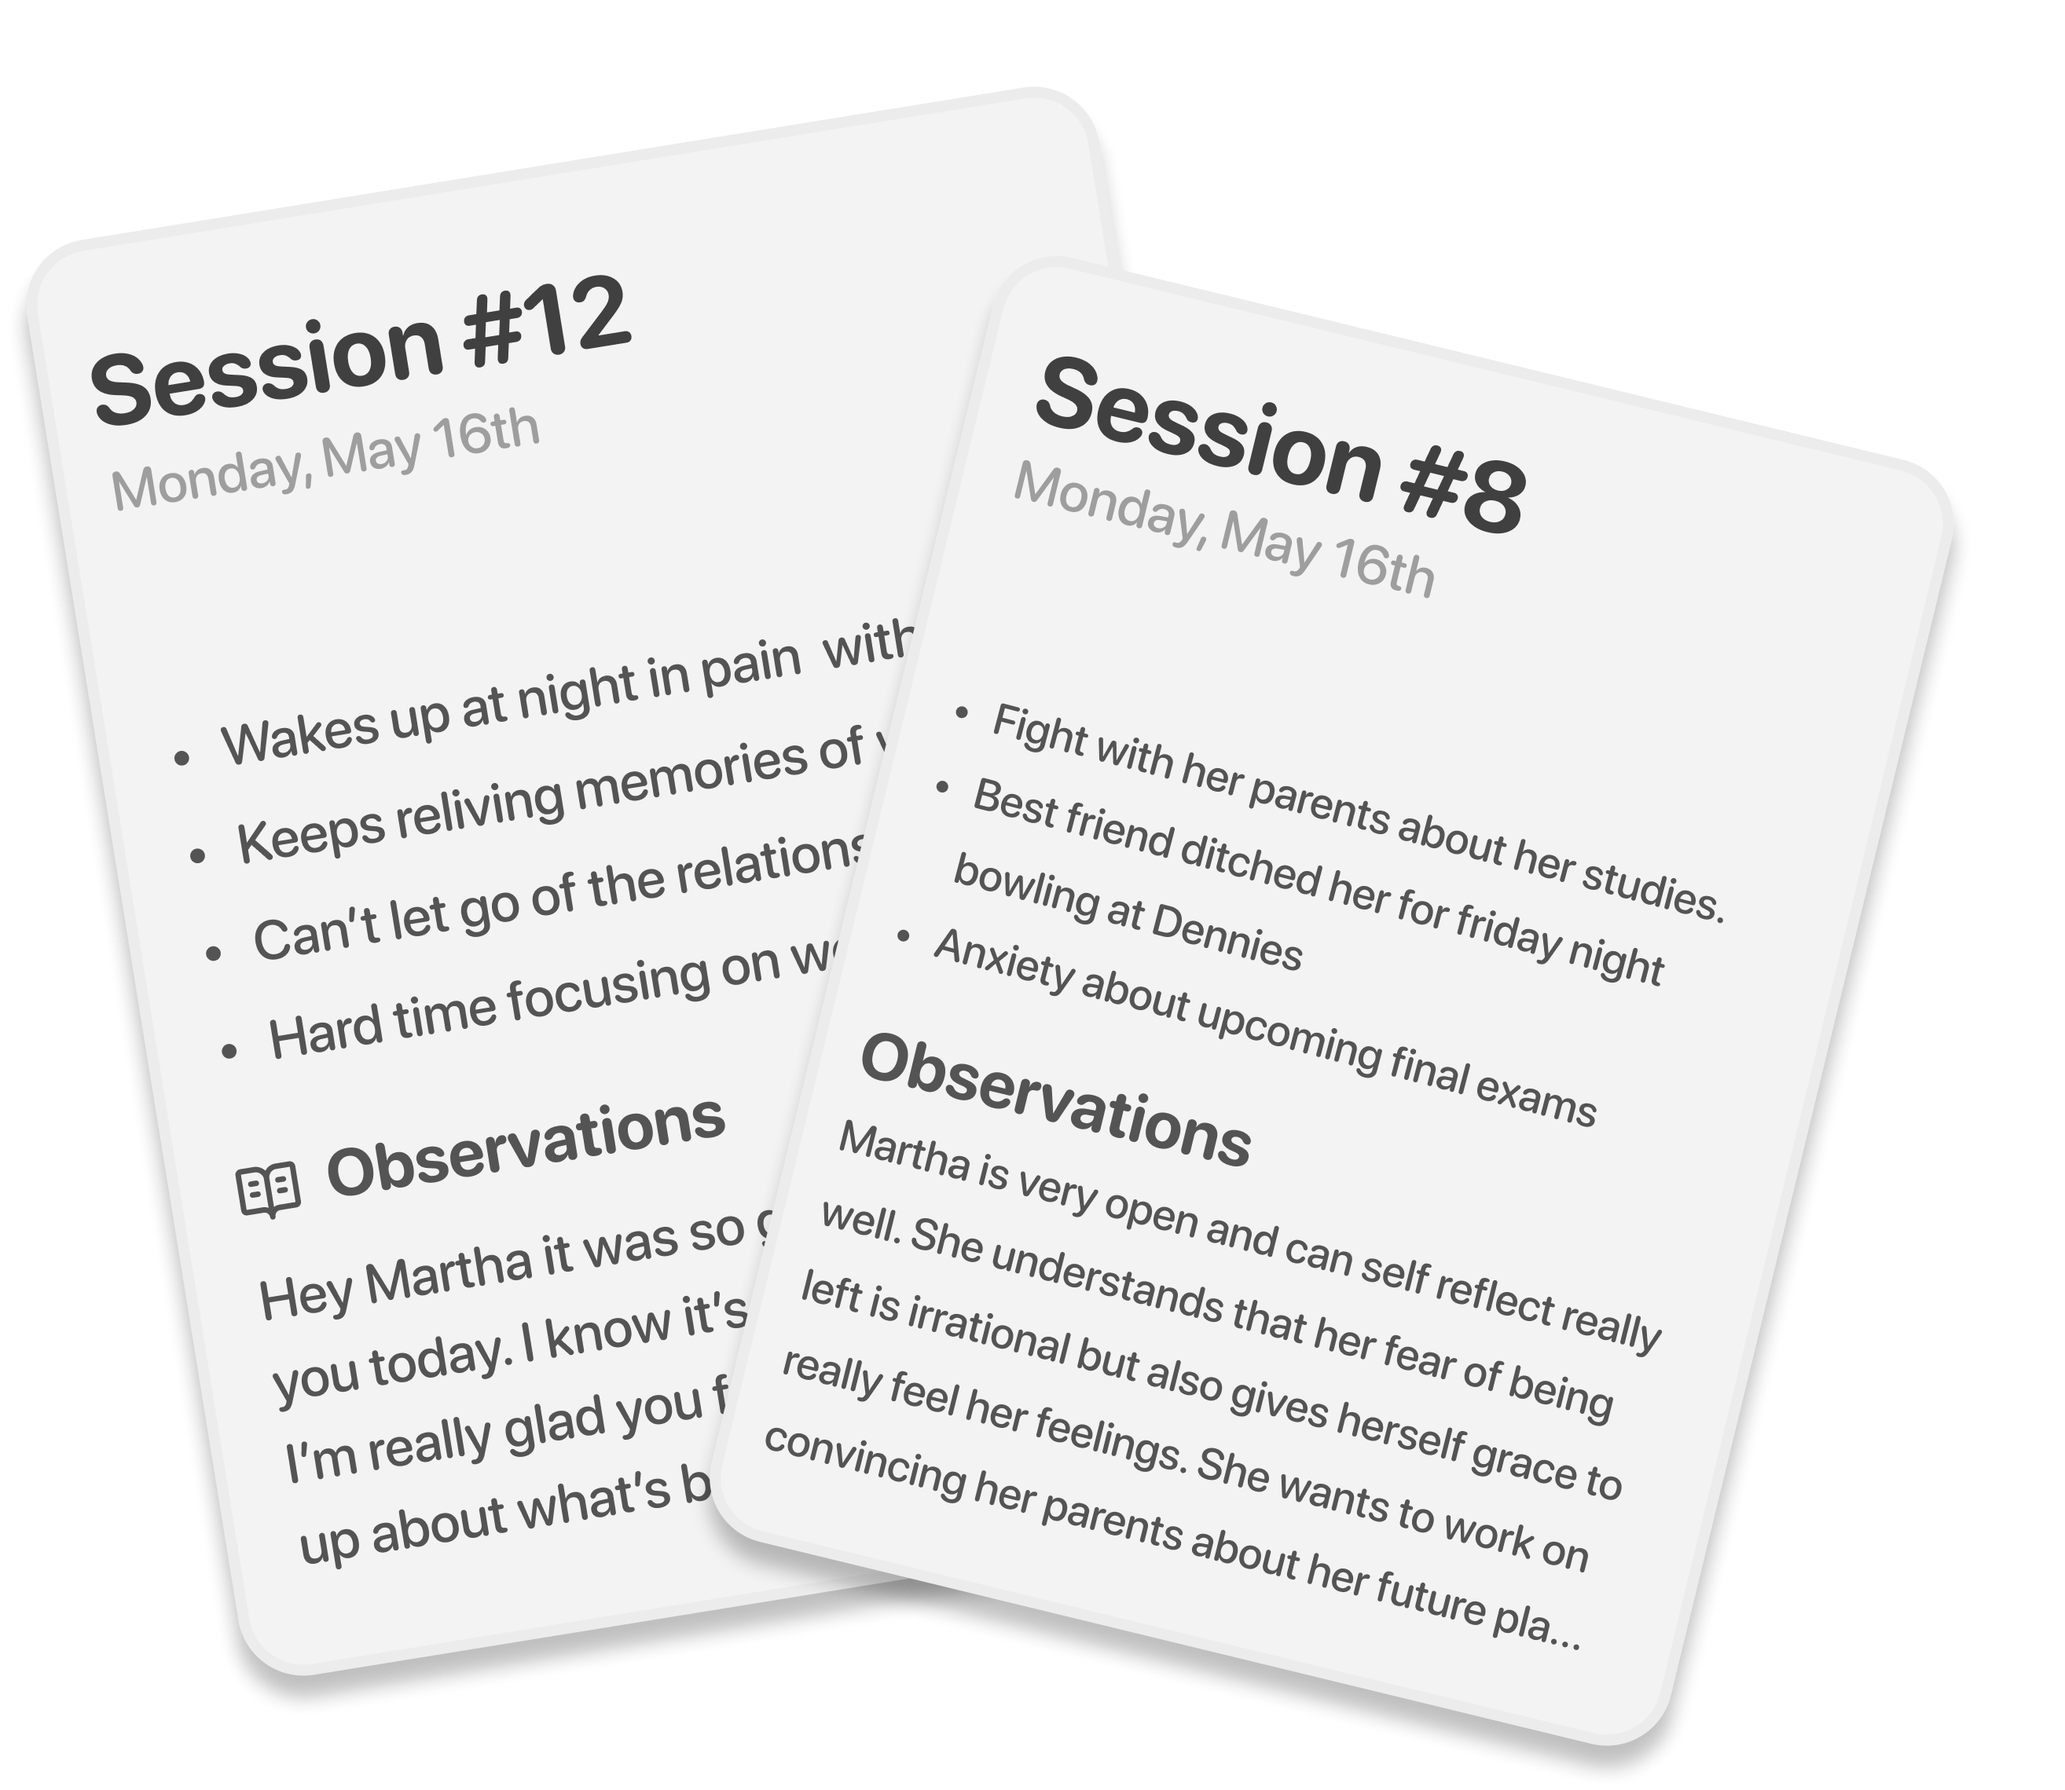
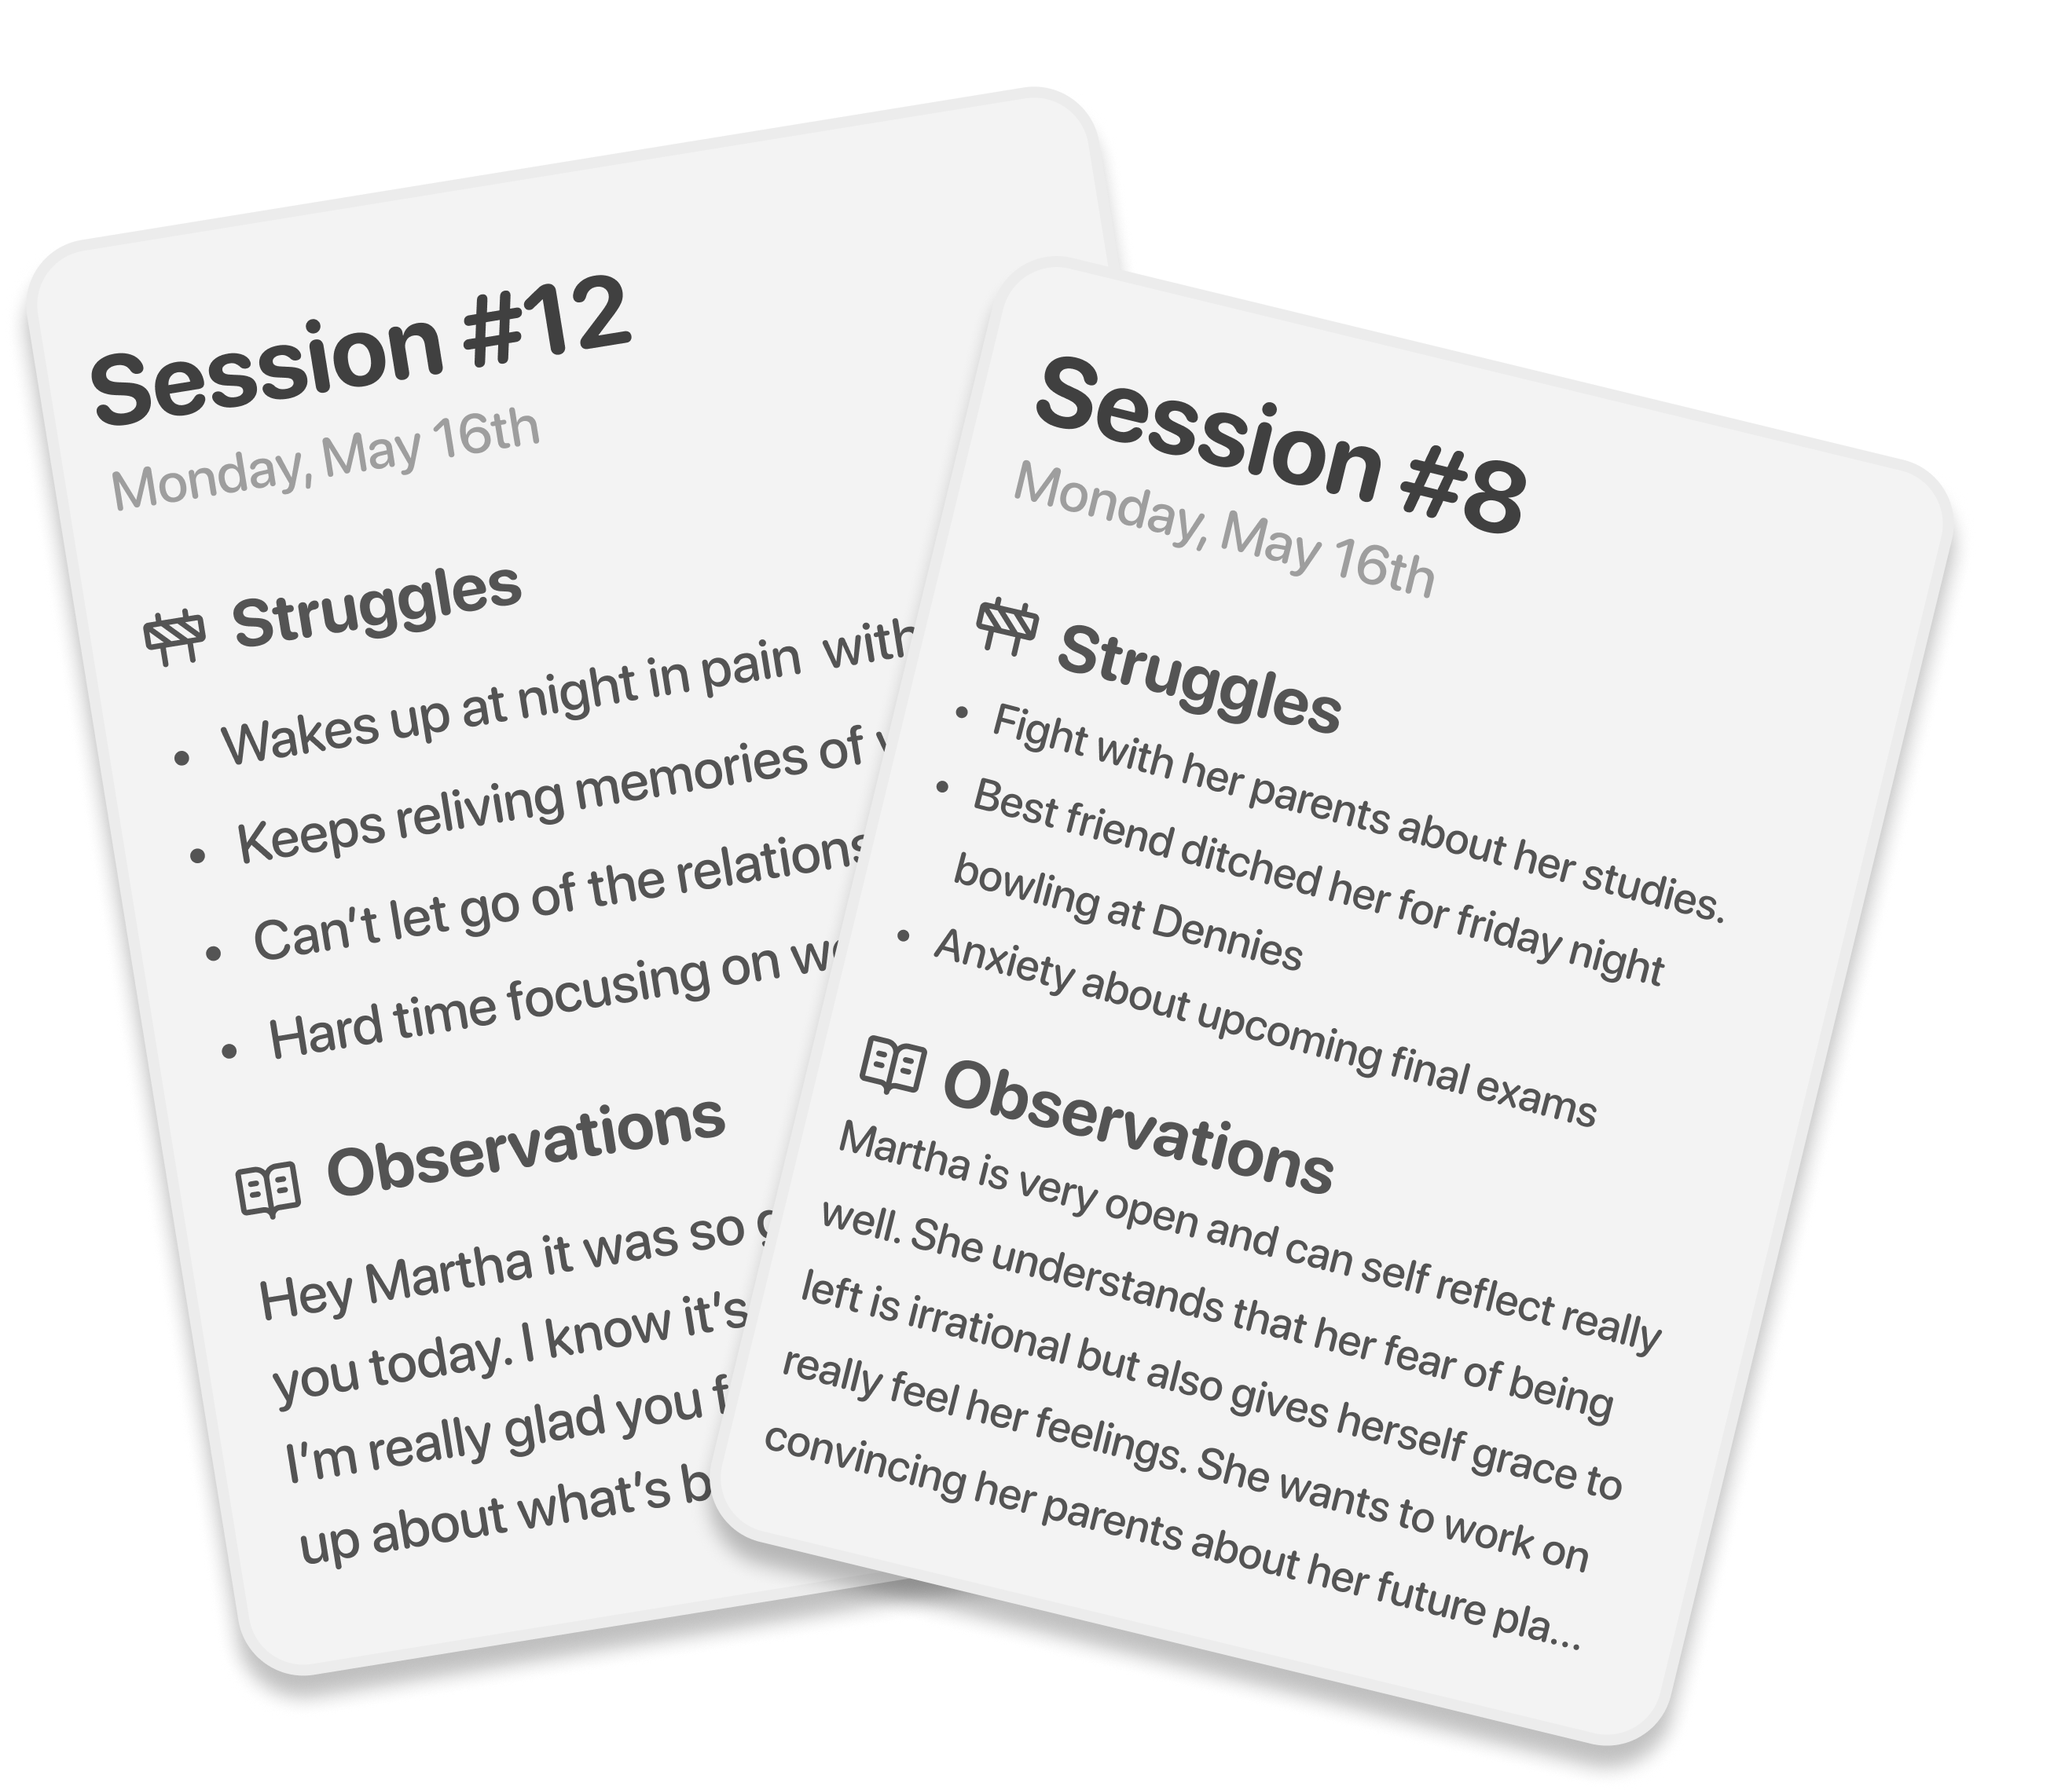
font applied

Changed region(s): [[0.4056, 0.5608, 0.6553, 0.6854], [0.0624, 0.3115, 0.2496, 0.3738], [0.468, 0.3115, 0.6553, 0.405]]

diff --git a/components/onboarding/ExtraSteps.tsx b/components/onboarding/ExtraSteps.tsx
@@ -59,7 +59,9 @@ const styles = StyleSheet.create({
     fontWeight: 'bold',
     color: 'white',
     marginTop: 20,
-    marginBottom: 10
+    marginBottom: 10,
+    fontFamily: 'SFPro-Bold',
+
   },
   subtitle: {
     fontSize: 15,
@@ -67,26 +69,18 @@ const styles = StyleSheet.create({
     opacity: 0.8,
     textAlign: 'center',
     fontWeight: '500',
+    fontFamily: 'SFPro-Medium',
   },
 });
 
 
-const { width: SCREEN_WIDTH } = Dimensions.get('window');
-
-
-// Make this smaller if you want a shorter card
-const CARD_BASE_WIDTH = SCREEN_WIDTH * 0.8; 
-// This is the visible “height” window for the large card.
-const CARD_VISIBLE_HEIGHT = CARD_BASE_WIDTH * 1.1; 
-
-// Scale factor for the smaller (right) card
-const SMALL_SCALE = 0.55;                 
 
 export const CustomStepEight: React.FC<{
   step: number;
   totalSteps: number;
+  continueColor?: string
   onContinue: () => void;
-}> = ({ step, totalSteps, onContinue }) => {
+}> = ({ step, totalSteps, onContinue, continueColor }) => {
   const goals = [
     'Letting Go with Kindness',
     'Try setting one tiny goal for the week',
@@ -95,7 +89,8 @@ export const CustomStepEight: React.FC<{
 
   return (
     <StepLayout
-      title="Buddy creates custom Reports and Objectives after Sessions"
+      continueColor={continueColor}
+      title="Buddy creates custom Reports and Objectives after each Session"
       subtitle=""
       step={step}
       totalSteps={totalSteps}
@@ -142,6 +137,7 @@ const styles2 = StyleSheet.create({
   marginTop: 27,
   textAlign: "center",
   marginBottom: 10,
+  fontFamily: 'SFPro-Bold',
  },
 
   goalsContainer: {
@@ -167,11 +163,13 @@ const styles2 = StyleSheet.create({
 export const CustomStep13: React.FC<{
   step: number;
   totalSteps: number;
+  continueColor?: string
   onContinue: () => void;
-}> = ({ step, totalSteps, onContinue }) => {
+}> = ({ step, totalSteps, onContinue, continueColor }) => {
 
   return (
     <StepLayout
+      continueColor={continueColor}
       title="Buddy helps you be happier & more secure"
       subtitle=""
       step={step}
@@ -193,16 +191,18 @@ export const CustomStep13: React.FC<{
 export const CustomStep14: React.FC<{
   step: number;
   totalSteps: number;
+  continueColor?: string
   onContinue: () => void;
-}> = ({ step, totalSteps, onContinue }) => {
+}> = ({ step, totalSteps, onContinue, continueColor }) => {
 
   return (
     <StepLayout
+      continueColor={continueColor}
       title="Buddy is now creating a personal Therapy Plan"
       subtitle="It will evolve and and adapt over time based on your sessions and memories"
       step={step}
       totalSteps={totalSteps}
-      gradientColors={['#FB5D83', '#0188FF']}
+      gradientColors={['#FFB301', '#EE5623']}
       onContinue={onContinue}
       continueLabel="Continue"
     >

diff --git a/components/onboarding/SubscriptionSteps.tsx b/components/onboarding/SubscriptionSteps.tsx
@@ -67,6 +67,7 @@ const styles = StyleSheet.create({
     color: 'white',
     marginBottom: 4,
     textAlign: 'center',
+    fontFamily: 'SFPro-Bold',
   },
   subtitle: {
     position: 'absolute',
@@ -77,6 +78,7 @@ const styles = StyleSheet.create({
     color: 'white',
     opacity: 0.8,
     textAlign: 'center',
+    fontFamily: 'SFPro-Medium',
   },
   contentContainer: {
     flex: 1,
@@ -92,11 +94,13 @@ const styles = StyleSheet.create({
     borderRadius: 30,
     paddingVertical: 15,
     alignItems: 'center',
+    fontFamily: 'SFPro-Bold',
   },
   continueText: {
     color: '#01A8FF',
     fontSize: 19,
     fontWeight: '700',
+    fontFamily: 'SFPro-Bold',
   },
   disclaimer: {
     marginTop: -12,
@@ -104,7 +108,8 @@ const styles = StyleSheet.create({
     fontSize: 12,
     fontWeight: '500',
     opacity: 0.7,
-    textAlign: "center"
+    textAlign: "center",
+    fontFamily: 'SFPro-Bold',
   }
 });
 
@@ -122,7 +127,7 @@ export const FreeTrial = ({onContinue}: {onContinue: () => void}) => {
       <Image source={require("../../assets/Phone.png")} style={{ width: width * 0.64, height: height * 0.45, marginBottom: 40, alignSelf:"center" }} />
       <View style={{ flexDirection: 'row', alignItems: 'center', justifyContent: 'center', display: 'flex' }}>
        <SymbolView name="checkmark" size={23} tintColor="white" weight="bold" />
-        <Text style={{ fontSize: 23, color: 'white', fontWeight: '700', marginLeft: 4 }}> No Payment due now</Text>
+        <Text style={{ fontSize: 23, color: 'white', fontWeight: '700', marginLeft: 4, fontFamily: 'SFPro-Bold', }}> No Payment due now</Text>
       </View>
     </StepLayout>
   )
@@ -141,7 +146,7 @@ export const FreeTrialNotif = ({onContinue}: {onContinue: () => void}) => {
         <SymbolView name="bell.badge" size={220} tintColor="white" type='multicolor' animationSpec={{effect:{type: 'bounce'}, repeating: true}} style={{alignSelf:"center"}} />
         <View style={{ flexDirection: 'row', alignItems: 'center', justifyContent: 'center', display: 'flex', marginTop: 60 }}>
         <SymbolView name="checkmark" size={23} tintColor="white" weight="bold" />
-        <Text style={{ fontSize: 23, color: 'white', fontWeight: '700', marginLeft: 4 }}> No Payment due now</Text>
+        <Text style={{ fontSize: 23, color: 'white', fontWeight: '700', marginLeft: 4, fontFamily: 'SFPro-Bold', }}> No Payment due now</Text>
         </View>
       </StepLayout>
     )

diff --git a/components/reports/sections.tsx b/components/reports/sections.tsx
@@ -59,18 +59,22 @@ const styles = StyleSheet.create({
     flexDirection: 'row',
     alignItems: 'center',
     marginBottom: 8,
+
   },
   title: {
     color: '#fefefe',
     fontSize: 21,
     fontWeight: '600',
     marginLeft: 8,
+    fontFamily: 'SFPro-Bold',
+
   },
   paragraph: {
     color: '#fefefe',
     fontSize: 18,
     fontWeight: '500',
     lineHeight: 26,
+    fontFamily: 'SFPro-Medium',
   },
   bulletRow: {
     flexDirection: 'row',
@@ -88,6 +92,8 @@ const styles = StyleSheet.create({
     color: '#fefefe',
     fontSize: 18,
     fontWeight: '500',
-    lineHeight: 26,
+    lineHeight: 26,    
+    fontFamily: 'SFPro-Bold',
+
   },
 })

diff --git a/components/Feed/ReportsFeed.tsx b/components/Feed/ReportsFeed.tsx
@@ -195,6 +195,7 @@ const styles = StyleSheet.create({
     fontSize: 18,
     fontWeight: '700',
     color: '#111',
+    fontFamily: 'SFPro-Bold',
   },
 
   // --- tabs ---
@@ -217,6 +218,7 @@ const styles = StyleSheet.create({
     color: '#888',
     fontSize: 16,
     fontWeight: '600',
+    fontFamily: 'SFPro-Bold',
   },
   tabTextActive: {
     color: '#111',
@@ -236,6 +238,7 @@ const styles = StyleSheet.create({
     fontSize: 14,
     fontWeight: '700',
     color: '#555',
+    fontFamily: 'SFPro-Bold',
   },
   listContent: {
     paddingHorizontal: 16,

diff --git a/components/reports/report.tsx b/components/reports/report.tsx
@@ -184,6 +184,7 @@ const styles = StyleSheet.create({
     color: '#fff',
     fontSize: 32,
     fontWeight: '700',
+    fontFamily: 'SFPro-Bold',
   },
   date: {
     color: '#aaa',
@@ -213,6 +214,7 @@ const styles = StyleSheet.create({
   legendLabel: {
     color: '#fff',
     fontSize: 14,
+    fontFamily: 'SFPro-Bold',
   },
   dividerRow: {
     flexDirection: 'row',
@@ -257,6 +259,7 @@ const styles = StyleSheet.create({
     fontSize: 18,
     fontWeight: '600',
     color: '#101010',
+    fontFamily: 'SFPro-Bold',
 
   },
   footer: {

diff --git a/components/onboarding/StepLayout.tsx b/components/onboarding/StepLayout.tsx
@@ -146,11 +146,13 @@ const styles = StyleSheet.create({
     fontWeight: '700',
     color: 'white',
     marginBottom: 4,
+    fontFamily: 'SFPro-Bold',
   },
   subtitle: {
     fontSize: 18,
     fontWeight: '500',
     color: 'white',
+    fontFamily: 'SFPro-Medium',
   },
   contentContainer: {
     flex: 1,
@@ -166,6 +168,8 @@ const styles = StyleSheet.create({
     borderRadius: 30,
     paddingVertical: 15,
     alignItems: 'center',
+    fontFamily: 'SFPro-Bold',
+
   },
   continueText: {
     fontSize: 19,

diff --git a/app/_layout.tsx b/app/_layout.tsx
@@ -16,7 +16,7 @@ SplashScreen.preventAutoHideAsync();
 export default function RootLayout() {
   // 1) Load custom fonts
   const [fontsLoaded, fontError] = useFonts({
-    SFPro:          require('../assets/fonts/SFProRounded-Regular.ttf'),
+    'SFPro':          require('../assets/fonts/SFProRounded-Regular.ttf'),
     'SFPro-Medium': require('../assets/fonts/SFProRounded-Medium.ttf'),
     'SFPro-Bold':   require('../assets/fonts/SFProRounded-Bold.ttf'),
   });

diff --git a/components/home/index.tsx b/components/home/index.tsx
@@ -125,7 +125,7 @@ const styles = StyleSheet.create({
     flex: 1, justifyContent: 'center', alignItems: 'center', marginTop: 20,
   },
   prompt: {
-    marginTop: 24, textAlign: 'center', fontSize: 34, fontWeight: '600',
+    marginTop: 24, textAlign: 'center', fontSize: 34, fontWeight: '600',     fontFamily: 'SFPro-Bold',
   },
   bottomBar: {
     flexDirection: 'row', alignItems: 'center', justifyContent: 'space-around', padding: 24,

diff --git a/components/home/Chat.tsx b/components/home/Chat.tsx
@@ -110,6 +110,7 @@ const styles = StyleSheet.create({
     maxWidth: '75%',
     fontSize: 17,
     fontWeight: '700',
+    fontFamily: 'SFPro-Bold',
     color: '#181818',
   },
   bubbleUser: {
@@ -148,6 +149,7 @@ const styles = StyleSheet.create({
     paddingHorizontal: 16,
     backgroundColor: '#f0f0f0',
     fontSize: 16,
+    fontFamily: 'SFPro-Bold',
     // shadow for iOS
   },
   sendButton: {

diff --git a/app/onboarding.tsx b/app/onboarding.tsx
@@ -186,7 +186,7 @@ export default function Onboarding() {
         selected={selected}
         onSelect={setSelected}
         onContinue={() => setStep(13)}
-        gradientColors={['#8DCBFF', '#0088FF']}
+        gradientColors={['#80F061', '#00995C']}
         step={12}
         totalSteps={totalSteps}
         continueColor="#3AC15E"

diff --git a/components/onboarding/SignIn.tsx b/components/onboarding/SignIn.tsx
@@ -78,6 +78,8 @@ const styles = StyleSheet.create({
   text: {
     fontSize:   19,
     fontWeight: '600',
-    color:      '#62BFF8',                 // match your light-blue text
+    color:      '#62BFF8',    
+    fontFamily: 'SFPro-Bold',
+    // match your light-blue text
   },
 });

diff --git a/components/onboarding/OnboardingStep.tsx b/components/onboarding/OnboardingStep.tsx
@@ -85,6 +85,8 @@ const styles = StyleSheet.create({
     color: 'white',
     fontSize: 23,
     fontWeight: '600',
+    fontFamily: 'SFPro-Bold',
+
   },
   optionTextSelected: {
     fontWeight: 'bold',
